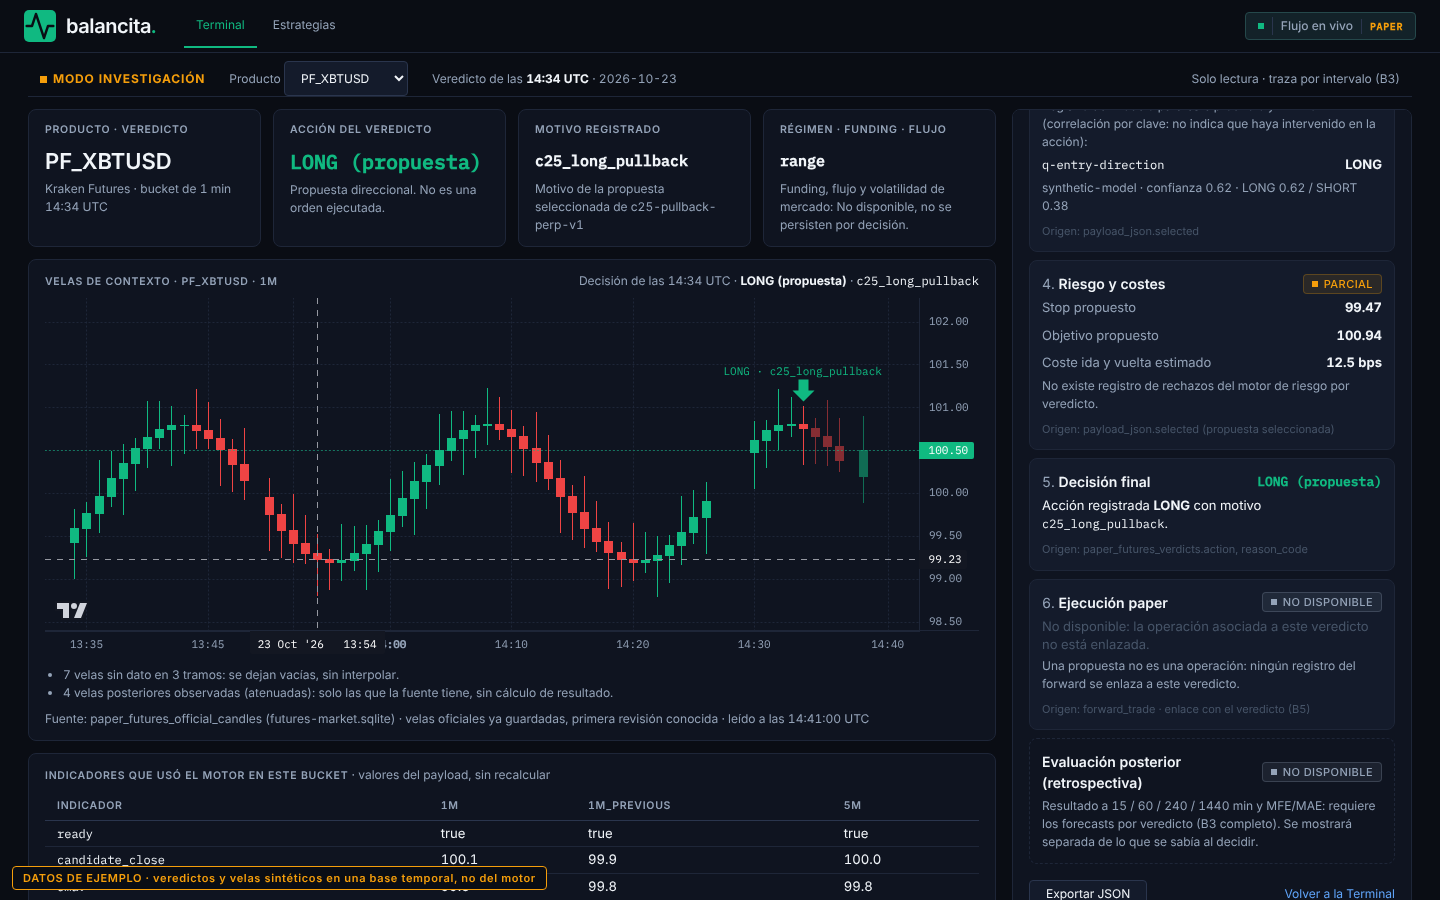
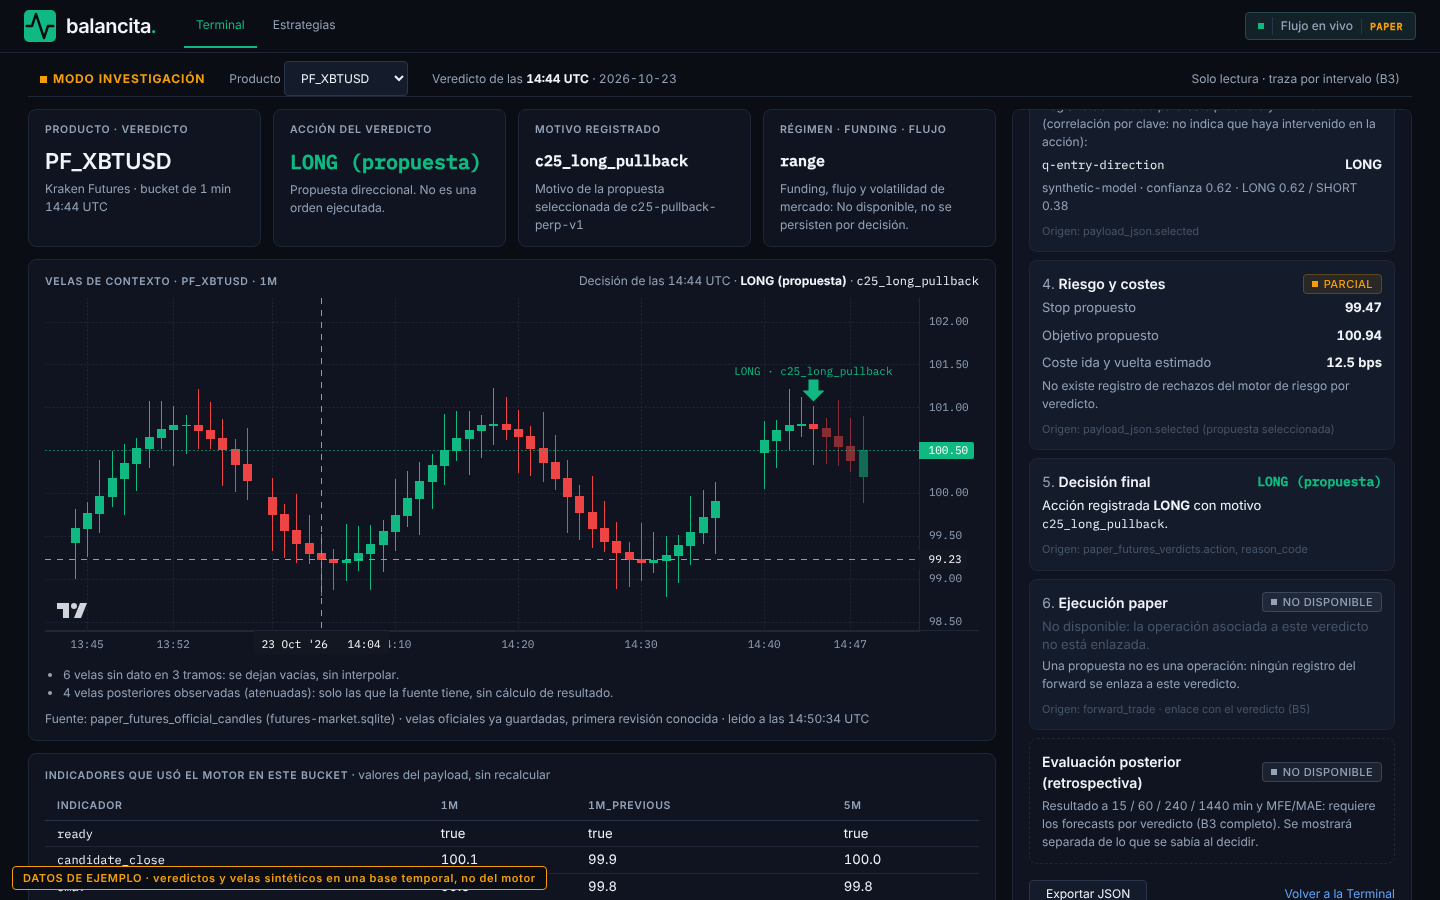
Terminal: decisiones de Qwen en el gráfico, el historial y el detalle
Nuevo endpoint de solo lectura /api/qwen/decisions (pregunta trade_action: buy = LONG, sell = SHORT, hold = WAIT) y su lectura en la Terminal.

diff --git a/server/src/features/live-gateway/qwen-decisions.ts b/server/src/features/live-gateway/qwen-decisions.ts
@@ -1,0 +1,84 @@
+import { withDb, num, rowOf, type Row } from './observability-health.ts'
+
+/**
+ * Qwen's own decisions for the Terminal, read-only from Q's decisions DB
+ * (`paper_futures_llm_decisions`, question `trade_action`): one row per product
+ * and minute that Qwen decided. buy = LONG, sell = SHORT, hold = WAIT. Nothing
+ * here writes, launches or infers; a source that cannot be read says why.
+ */
+const PRODUCT = /^PF_[A-Z0-9]{2,16}$/
+const QUESTION = 'trade_action'
+const DEFAULT_LIMIT = 100
+const MAX_LIMIT = 500
+const ACTIONS: Record<string, 'LONG' | 'SHORT' | 'WAIT'> = {
+  buy: 'LONG',
+  sell: 'SHORT',
+  hold: 'WAIT',
+}
+
+export interface QwenDecision {
+  readonly product: string
+  readonly bucket_start_ms: number
+  readonly action: 'LONG' | 'SHORT' | 'WAIT'
+  readonly chosen: string
+  readonly confidence: number
+  readonly latency_ms: number
+  readonly written_at_ms: number
+  readonly question_version: number
+}
+
+export type QwenDecisionsResponse =
+  | { readonly status: 'ok'; readonly decisions: readonly QwenDecision[] }
+  | { readonly status: 'off' | 'error'; readonly reason: string }
+
+export interface QwenDecisions {
+  report(product: string, limit?: number): QwenDecisionsResponse
+}
+
+export function qwenDecisionsOff(reason: string): QwenDecisions {
+  return { report: () => ({ status: 'off', reason }) }
+}
+
+export function createQwenDecisions(options: {
+  readonly decisionsDbPath: string | undefined
+}): QwenDecisions {
+  return {
+    report(product, limit = DEFAULT_LIMIT) {
+      if (!PRODUCT.test(product))
+        return { status: 'error', reason: 'invalid_product' }
+      if (!Number.isInteger(limit) || limit < 1 || limit > MAX_LIMIT)
+        return { status: 'error', reason: 'invalid_limit' }
+      const opened = withDb(options.decisionsDbPath, (db) =>
+        db
+          .prepare(
+            `SELECT bucket_start, chosen, confidence, latency_ms, written_at, question_version
+               FROM paper_futures_llm_decisions
+              WHERE product_id=? AND question_id=?
+              ORDER BY bucket_start DESC LIMIT ?`,
+          )
+          .all(product, QUESTION, limit)
+          .map((row) => rowOf(row)),
+      )
+      if (opened.state !== 'read')
+        return { status: 'off', reason: opened.detail }
+      const decisions: QwenDecision[] = []
+      for (const row of opened.value as Row[]) {
+        const bucket = num(row.bucket_start)
+        const chosen = String(row.chosen)
+        const action = ACTIONS[chosen]
+        if (bucket === null || !action) continue
+        decisions.push({
+          product,
+          bucket_start_ms: bucket,
+          action,
+          chosen,
+          confidence: num(row.confidence) ?? 0,
+          latency_ms: num(row.latency_ms) ?? 0,
+          written_at_ms: num(row.written_at) ?? bucket,
+          question_version: num(row.question_version) ?? 0,
+        })
+      }
+      return { status: 'ok', decisions }
+    },
+  }
+}

diff --git a/src/app/useQwenDecisions.ts b/src/app/useQwenDecisions.ts
@@ -1,0 +1,71 @@
+import { useEffect, useState } from 'react'
+import { record } from '../shared/wire/decode.ts'
+
+export const QWEN_STRATEGY_ID = 'qwen'
+const POLL_MS = 15_000
+const EMPTY: Record<string, unknown>[] = []
+
+/**
+ * Qwen's own decisions of one product, read from the gateway
+ * (`/api/qwen/decisions`), shaped like the analyses the Terminal already draws
+ * (marker, history row, detail). A source that is off or fails gives none:
+ * nothing is invented.
+ */
+export function qwenAnalyses(payload: unknown): Record<string, unknown>[] {
+  const body = record(payload)
+  if (body.status !== 'ok' || !Array.isArray(body.decisions)) return []
+  return body.decisions
+    .map(record)
+    .filter(
+      (row) =>
+        typeof row.product === 'string' &&
+        Number.isSafeInteger(row.bucket_start_ms) &&
+        typeof row.action === 'string',
+    )
+    .map((row) => ({
+      analysis_id: `qwen:${row.product}:${row.bucket_start_ms}`,
+      product: row.product,
+      bucket_start_ms: row.bucket_start_ms,
+      decision_time_ms: row.written_at_ms ?? row.bucket_start_ms,
+      action: row.action,
+      selected_strategy_id: QWEN_STRATEGY_ID,
+      selector: { strategy_id: QWEN_STRATEGY_ID, action: row.action },
+      reason_code: `qwen_${String(row.chosen)}`,
+      confidence: row.confidence,
+    }))
+    .sort((a, b) => Number(a.decision_time_ms) - Number(b.decision_time_ms))
+}
+
+export function useQwenDecisions(
+  product: string | undefined,
+  enabled: boolean,
+): Record<string, unknown>[] {
+  // Rows belong to the product they were read for: another product shows none.
+  const [read, setRead] = useState<{
+    product: string
+    rows: Record<string, unknown>[]
+  } | null>(null)
+  useEffect(() => {
+    if (!enabled || !product) return
+    const controller = new AbortController()
+    const load = async () => {
+      try {
+        const response = await fetch(
+          `/api-live/qwen/decisions?product=${encodeURIComponent(product)}&limit=100`,
+          { signal: controller.signal },
+        )
+        if (!response.ok) throw new Error(`HTTP ${response.status}`)
+        setRead({ product, rows: qwenAnalyses(await response.json()) })
+      } catch {
+        if (!controller.signal.aborted) setRead({ product, rows: [] })
+      }
+    }
+    void load()
+    const timer = setInterval(() => void load(), POLL_MS)
+    return () => {
+      controller.abort()
+      clearInterval(timer)
+    }
+  }, [product, enabled])
+  return enabled && read && read.product === product ? read.rows : EMPTY
+}

diff --git a/server/src/features/live-gateway/qwen-decisions.test.ts b/server/src/features/live-gateway/qwen-decisions.test.ts
@@ -1,0 +1,67 @@
+import { mkdtempSync, rmSync } from 'node:fs'
+import { tmpdir } from 'node:os'
+import { join } from 'node:path'
+import { DatabaseSync } from 'node:sqlite'
+import { afterEach, describe, expect, it } from 'vitest'
+import { createQwenDecisions, qwenDecisionsOff } from './qwen-decisions.ts'
+
+const dirs: string[] = []
+afterEach(() => {
+  for (const dir of dirs.splice(0)) rmSync(dir, { recursive: true })
+})
+
+function seed(rows: Array<[string, number, string, string, number]>): string {
+  const dir = mkdtempSync(join(tmpdir(), 'qwen-decisions-'))
+  dirs.push(dir)
+  const path = join(dir, 'decisions.sqlite')
+  const db = new DatabaseSync(path)
+  db.exec(`CREATE TABLE paper_futures_llm_decisions(
+    product_id TEXT, bucket_start INTEGER, question_id TEXT, question_version INTEGER,
+    chosen TEXT, confidence REAL, latency_ms INTEGER, written_at INTEGER)`)
+  const insert = db.prepare(
+    'INSERT INTO paper_futures_llm_decisions VALUES(?,?,?,4,?,?,120,?)',
+  )
+  for (const [product, bucket, question, chosen, confidence] of rows)
+    insert.run(product, bucket, question, chosen, confidence, bucket + 5_000)
+  db.close()
+  return path
+}
+
+describe('createQwenDecisions', () => {
+  it('maps trade_action choices to LONG, SHORT and WAIT, newest first', () => {
+    const path = seed([
+      ['PF_XBTUSD', 60_000, 'trade_action', 'buy', 0.7],
+      ['PF_XBTUSD', 120_000, 'trade_action', 'hold', 0.5],
+      ['PF_XBTUSD', 180_000, 'trade_action', 'sell', 0.9],
+      ['PF_XBTUSD', 240_000, 'direction_1h', 'up', 0.9],
+      ['PF_ETHUSD', 300_000, 'trade_action', 'buy', 0.9],
+    ])
+    const result = createQwenDecisions({ decisionsDbPath: path }).report(
+      'PF_XBTUSD',
+    )
+    expect(result.status).toBe('ok')
+    if (result.status !== 'ok') return
+    expect(result.decisions.map((d) => [d.bucket_start_ms, d.action])).toEqual([
+      [180_000, 'SHORT'],
+      [120_000, 'WAIT'],
+      [60_000, 'LONG'],
+    ])
+  })
+
+  it('rejects a bad product or limit and reports an unreadable source as off', () => {
+    const reader = createQwenDecisions({ decisionsDbPath: undefined })
+    expect(reader.report('xbt')).toEqual({
+      status: 'error',
+      reason: 'invalid_product',
+    })
+    expect(reader.report('PF_XBTUSD', 0)).toEqual({
+      status: 'error',
+      reason: 'invalid_limit',
+    })
+    expect(reader.report('PF_XBTUSD')).toEqual({
+      status: 'off',
+      reason: 'source_not_configured',
+    })
+    expect(qwenDecisionsOff('x').report('PF_XBTUSD').status).toBe('off')
+  })
+})

diff --git a/server/src/features/live-gateway/gateway.ts b/server/src/features/live-gateway/gateway.ts
@@ -8,6 +8,7 @@ import WebSocket, { WebSocketServer } from 'ws'
 import { LiveMarketFollower } from './market-follower.ts'
 import { PaperEngineFollower } from './paper-engine-follower.ts'
 import { qwenScoresOff, type QwenScores } from './qwen-scores.ts'
+import { qwenDecisionsOff, type QwenDecisions } from './qwen-decisions.ts'
 import { createMovements, type Movements } from './movements.ts'
 import { CHART_INTERVALS_MS } from './terminal-chart.ts'
 import type { SystemUsage } from './system-usage.ts'
@@ -56,6 +57,8 @@ export interface LiveGatewayOptions {
   readonly engineUnavailableReason?: string
   /** Hits, misses and returns of Qwen's decisions. Absent: reported `off`. */
   readonly qwenScores?: QwenScores
+  /** Qwen's own decisions for the Terminal (read-only). Absent: off. */
+  readonly qwenDecisions?: QwenDecisions
   /** Kronos' forward paper decisions in Qwen's shape. Absent: reported `off`. */
   readonly kronosScores?: QwenScores
   /** Read-only list of Qwen's and Kronos' paper movements. Absent: both reported `off`. */
@@ -438,6 +441,20 @@ export async function buildLiveGateway(
       if (result.status === 'error' && result.reason === 'invalid_product')
         return reply.code(400).send(result)
       return result
+    },
+  )
+  const qwenDecisions =
+    options.qwenDecisions ?? qwenDecisionsOff('decisions_not_configured')
+  app.get<{ Querystring: { product?: string; limit?: string } }>(
+    '/api/qwen/decisions',
+    (request, reply) => {
+      const result = qwenDecisions.report(
+        request.query.product ?? '',
+        request.query.limit === undefined
+          ? undefined
+          : Number(request.query.limit),
+      )
+      return result.status === 'error' ? reply.code(400).send(result) : result
     },
   )
   const kronosScores =

diff --git a/src/app/FuturesTerminal.tsx b/src/app/FuturesTerminal.tsx
@@ -23,6 +23,7 @@ import SelectedDecision from './SelectedDecision.tsx'
 import { markerGap, markerGapNote } from './terminal-markers.ts'
 import TerminalMarketChart from './TerminalMarketChart.tsx'
 import { isApprovedAnalysis } from './terminal-approved.ts'
+import { useQwenDecisions } from './useQwenDecisions.ts'
 import {
   analysesNotice,
   analysisAction,
@@ -93,9 +94,16 @@ export default function FuturesTerminal({
     position,
   })
   const displayedPrice = quote.price
-  const analyses = Array.isArray(state?.analyses)
-    ? state.analyses.filter(isApprovedAnalysis)
-    : []
+  const qwen = useQwenDecisions(product, bootstrap.mode === 'paper_live')
+  const analyses = [
+    ...(Array.isArray(state?.analyses)
+      ? state.analyses.filter(isApprovedAnalysis)
+      : []),
+    ...qwen,
+  ].sort(
+    (a, b) =>
+      Number(record(a).decision_time_ms) - Number(record(b).decision_time_ms),
+  )
   const orders = Array.isArray(state?.orders) ? state.orders : []
   const fills = Array.isArray(state?.fills) ? state.fills : []
   const selectedAnalysis =
@@ -402,8 +410,8 @@ export default function FuturesTerminal({
                 <TerminalMarketChart
                   market={market}
                   mode={bootstrap.mode}
-                  analyses={gatewayEngine ? analyses : []}
-                  selectedId={gatewayEngine ? selectedId : ''}
+                  analyses={bootstrap.mode === 'paper_live' ? analyses : []}
+                  selectedId={bootstrap.mode === 'paper_live' ? selectedId : ''}
                   onSelect={selectAnalysis}
                   apiBase={apiBase}
                   product={product}

diff --git a/src/app/useQwenDecisions.test.ts b/src/app/useQwenDecisions.test.ts
@@ -1,0 +1,37 @@
+import { describe, expect, it } from 'vitest'
+import { qwenAnalyses } from './useQwenDecisions.ts'
+import { isApprovedAnalysis } from './terminal-approved.ts'
+
+const row = (bucket: number, action: string, chosen: string) => ({
+  product: 'PF_XBTUSD',
+  bucket_start_ms: bucket,
+  action,
+  chosen,
+  confidence: 0.6,
+  written_at_ms: bucket + 5_000,
+})
+
+describe('qwenAnalyses', () => {
+  it("shapes Qwen's decisions like analyses, oldest first, all shown", () => {
+    const out = qwenAnalyses({
+      status: 'ok',
+      decisions: [row(120_000, 'SHORT', 'sell'), row(60_000, 'WAIT', 'hold')],
+    })
+    expect(out.map((a) => [a.bucket_start_ms, a.action])).toEqual([
+      [60_000, 'WAIT'],
+      [120_000, 'SHORT'],
+    ])
+    expect(out.every(isApprovedAnalysis)).toBe(true)
+    expect(out[1]!.analysis_id).toBe('qwen:PF_XBTUSD:120000')
+  })
+
+  it('gives nothing when the source is off or malformed', () => {
+    expect(qwenAnalyses({ status: 'off', reason: 'file_not_found' })).toEqual(
+      [],
+    )
+    expect(
+      qwenAnalyses({ status: 'ok', decisions: [{ action: 'LONG' }] }),
+    ).toEqual([])
+    expect(qwenAnalyses(null)).toEqual([])
+  })
+})

diff --git a/server/src/app/gateway-main.ts b/server/src/app/gateway-main.ts
@@ -5,6 +5,7 @@ import {
   createQwenScores,
   qwenScoresOff,
 } from '../features/live-gateway/qwen-scores.ts'
+import { createQwenDecisions } from '../features/live-gateway/qwen-decisions.ts'
 import { createKronosScores } from '../features/live-gateway/kronos-scores.ts'
 import { createObservabilityHealth } from '../features/live-gateway/observability-health.ts'
 import { createObservabilityActivity } from '../features/live-gateway/observability-activity.ts'
@@ -95,6 +96,9 @@ async function main(): Promise<void> {
       process.env.BALANCITA_PYTHON_STATUS,
     ),
     qwenScores: qwenScoresFrom(process.env),
+    qwenDecisions: createQwenDecisions({
+      decisionsDbPath: process.env.FUTURES_DECISIONS_DB_PATH || undefined,
+    }),
     kronosScores: kronosScoresFrom(process.env),
     movements: movementsFrom(process.env),
     processHealthPath: process.env.DEV_HEALTH_FILE || undefined,

diff --git a/src/app/terminal-approved.ts b/src/app/terminal-approved.ts
@@ -1,4 +1,5 @@
 import { record } from '../shared/wire/decode.ts'
+import { QWEN_STRATEGY_ID } from './useQwenDecisions.ts'
 
 /**
  * Strategies the Terminal may show: only those that passed the whole cycle in
@@ -14,11 +15,12 @@ export const APPROVED_TERMINAL_STRATEGIES: readonly string[] = (
   .map((id: string) => id.trim())
   .filter((id: string) => id.length > 0)
 
-/** An engine verdict is shown only when its strategy is approved. */
+/** A verdict is shown when it is Qwen's or its strategy is approved. */
 export function isApprovedAnalysis(value: unknown): boolean {
   const analysis = record(value)
   const id =
     record(analysis.selector).strategy_id ?? analysis.selected_strategy_id
   if (APPROVED_TERMINAL_STRATEGIES.includes('*')) return true
+  if (id === QWEN_STRATEGY_ID) return true
   return typeof id === 'string' && APPROVED_TERMINAL_STRATEGIES.includes(id)
 }

diff --git a/src/app/terminal-copy.ts b/src/app/terminal-copy.ts
@@ -2,6 +2,9 @@ export function reasonLabel(value: unknown): string {
   if (typeof value !== 'string' || value.length === 0)
     return 'Motivo no registrado'
   const known: Record<string, string> = {
+    qwen_buy: 'Qwen propone abrir una posición larga',
+    qwen_sell: 'Qwen propone abrir una posición corta',
+    qwen_hold: 'Qwen decide esperar',
     c27_long_breakout: 'Ruptura alcista C27',
     c27_short_breakout: 'Ruptura bajista C27',
     position_owned: 'La posición sigue bajo gestión de su estrategia',

diff --git a/src/app/terminal-labels.ts b/src/app/terminal-labels.ts
@@ -54,6 +54,7 @@ export function strategyLabel(value: unknown): string {
   if (typeof value !== 'string' || value.length === 0)
     return 'Sin estrategia seleccionada'
   const known: Record<string, string> = {
+    qwen: 'Qwen',
     'c25-pullback-perp-v1': 'C25 · retroceso (experimental)',
     'c26-reversion-perp-v1': 'C26 · reversión (experimental)',
     'c27-breakout-perp-v1': 'C27 · ruptura (experimental)',
